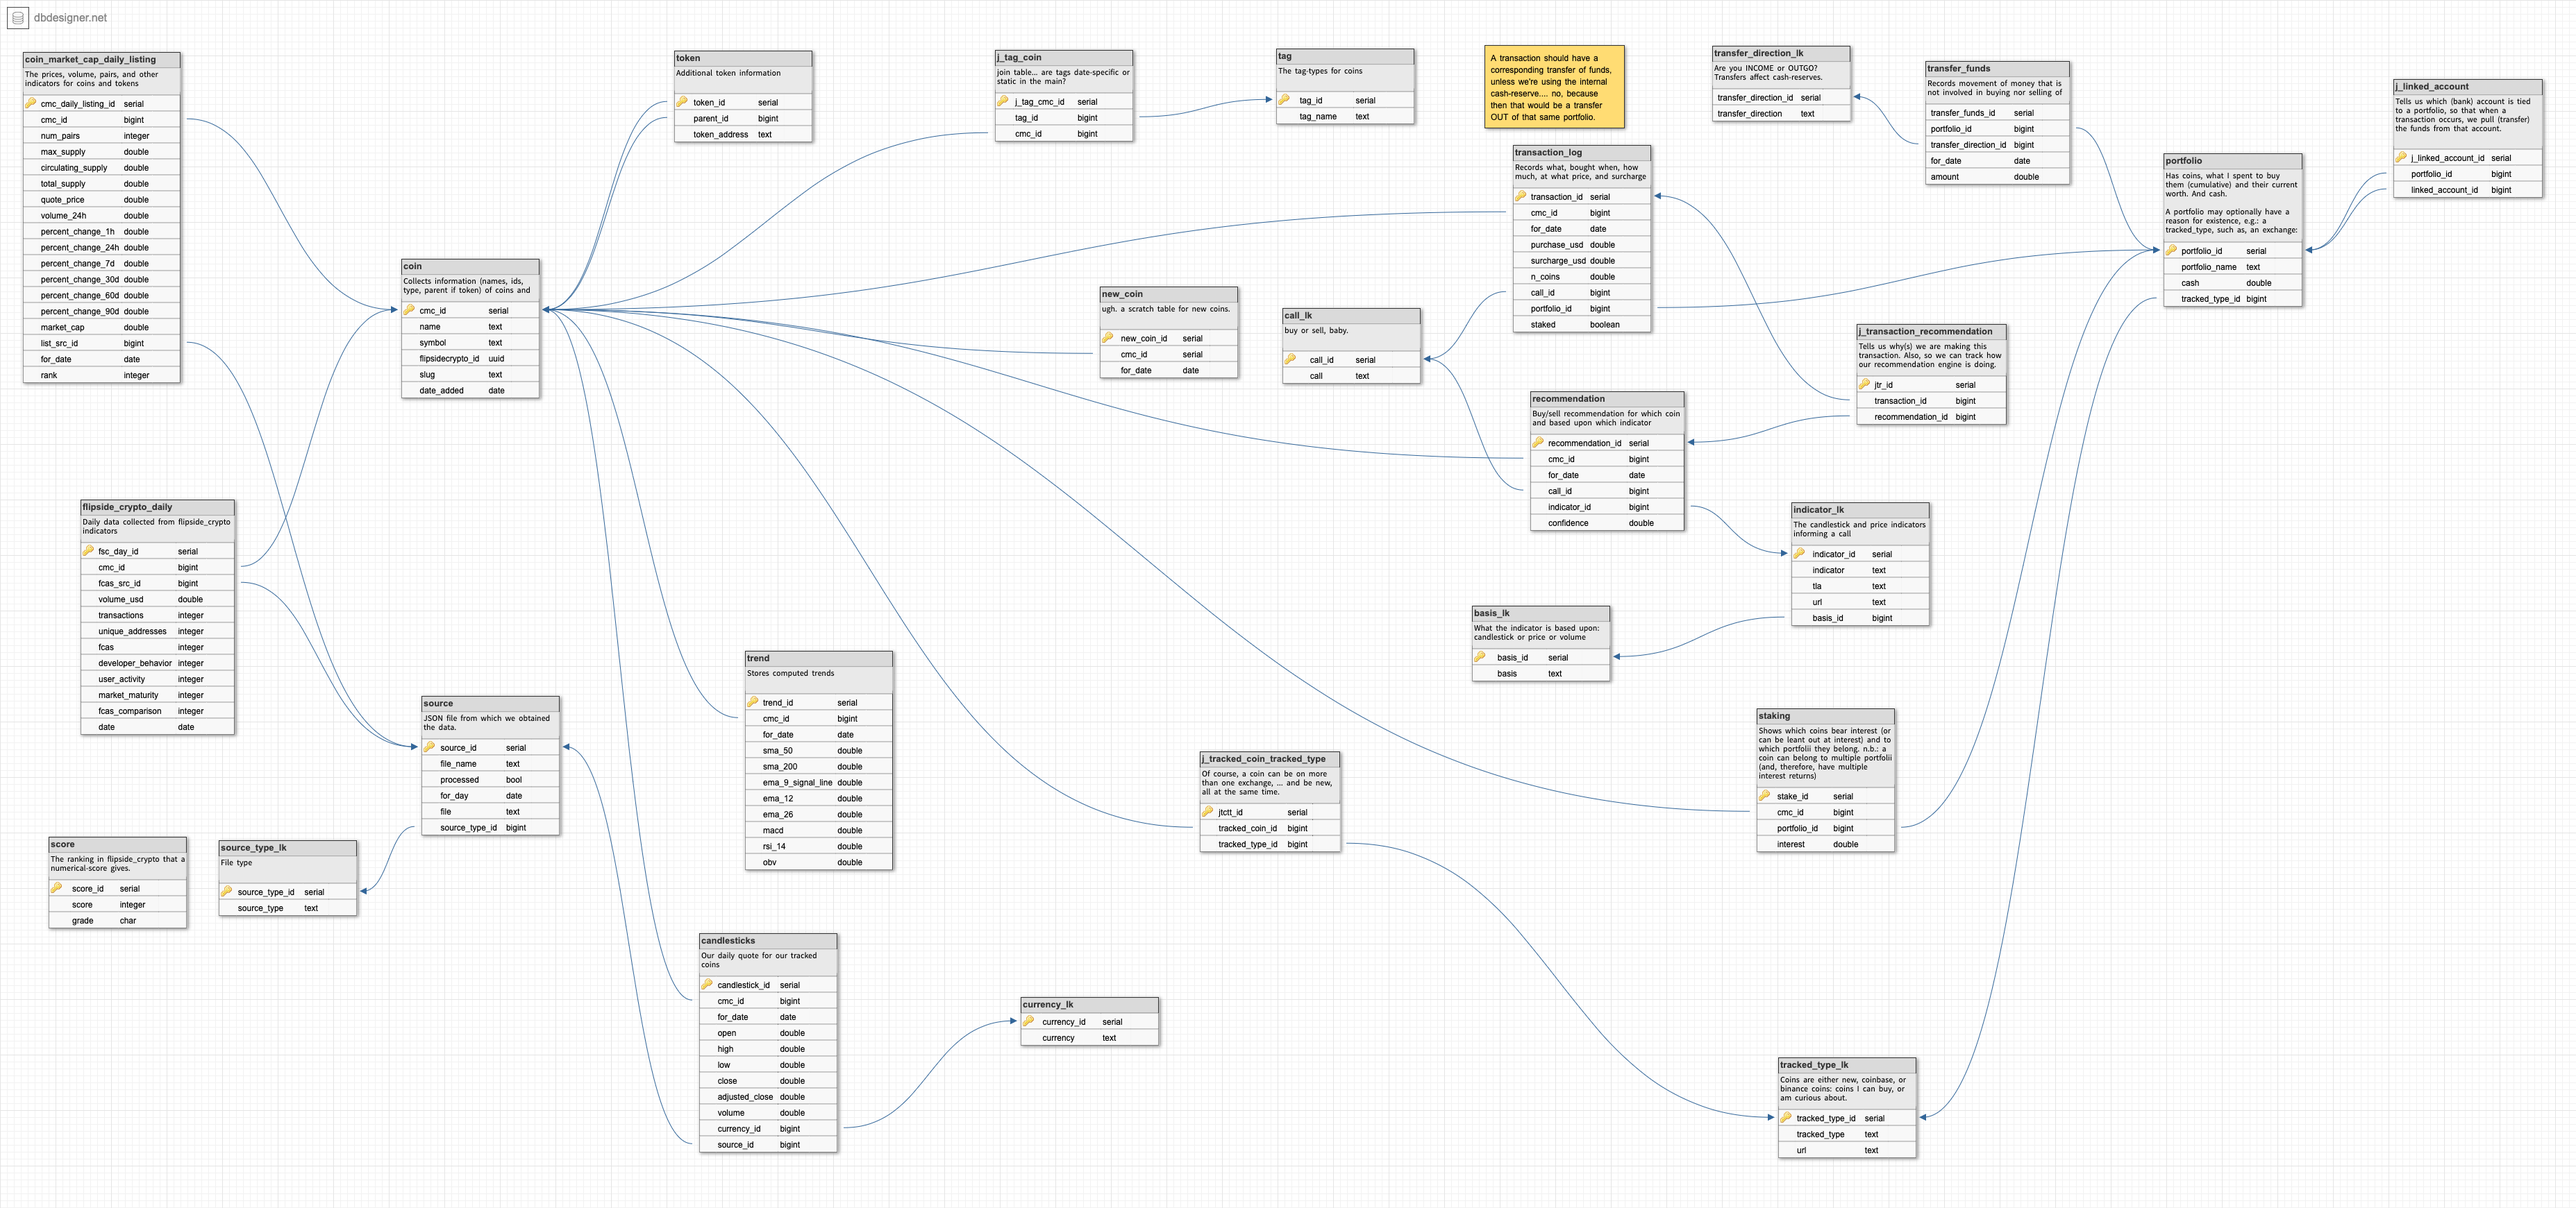
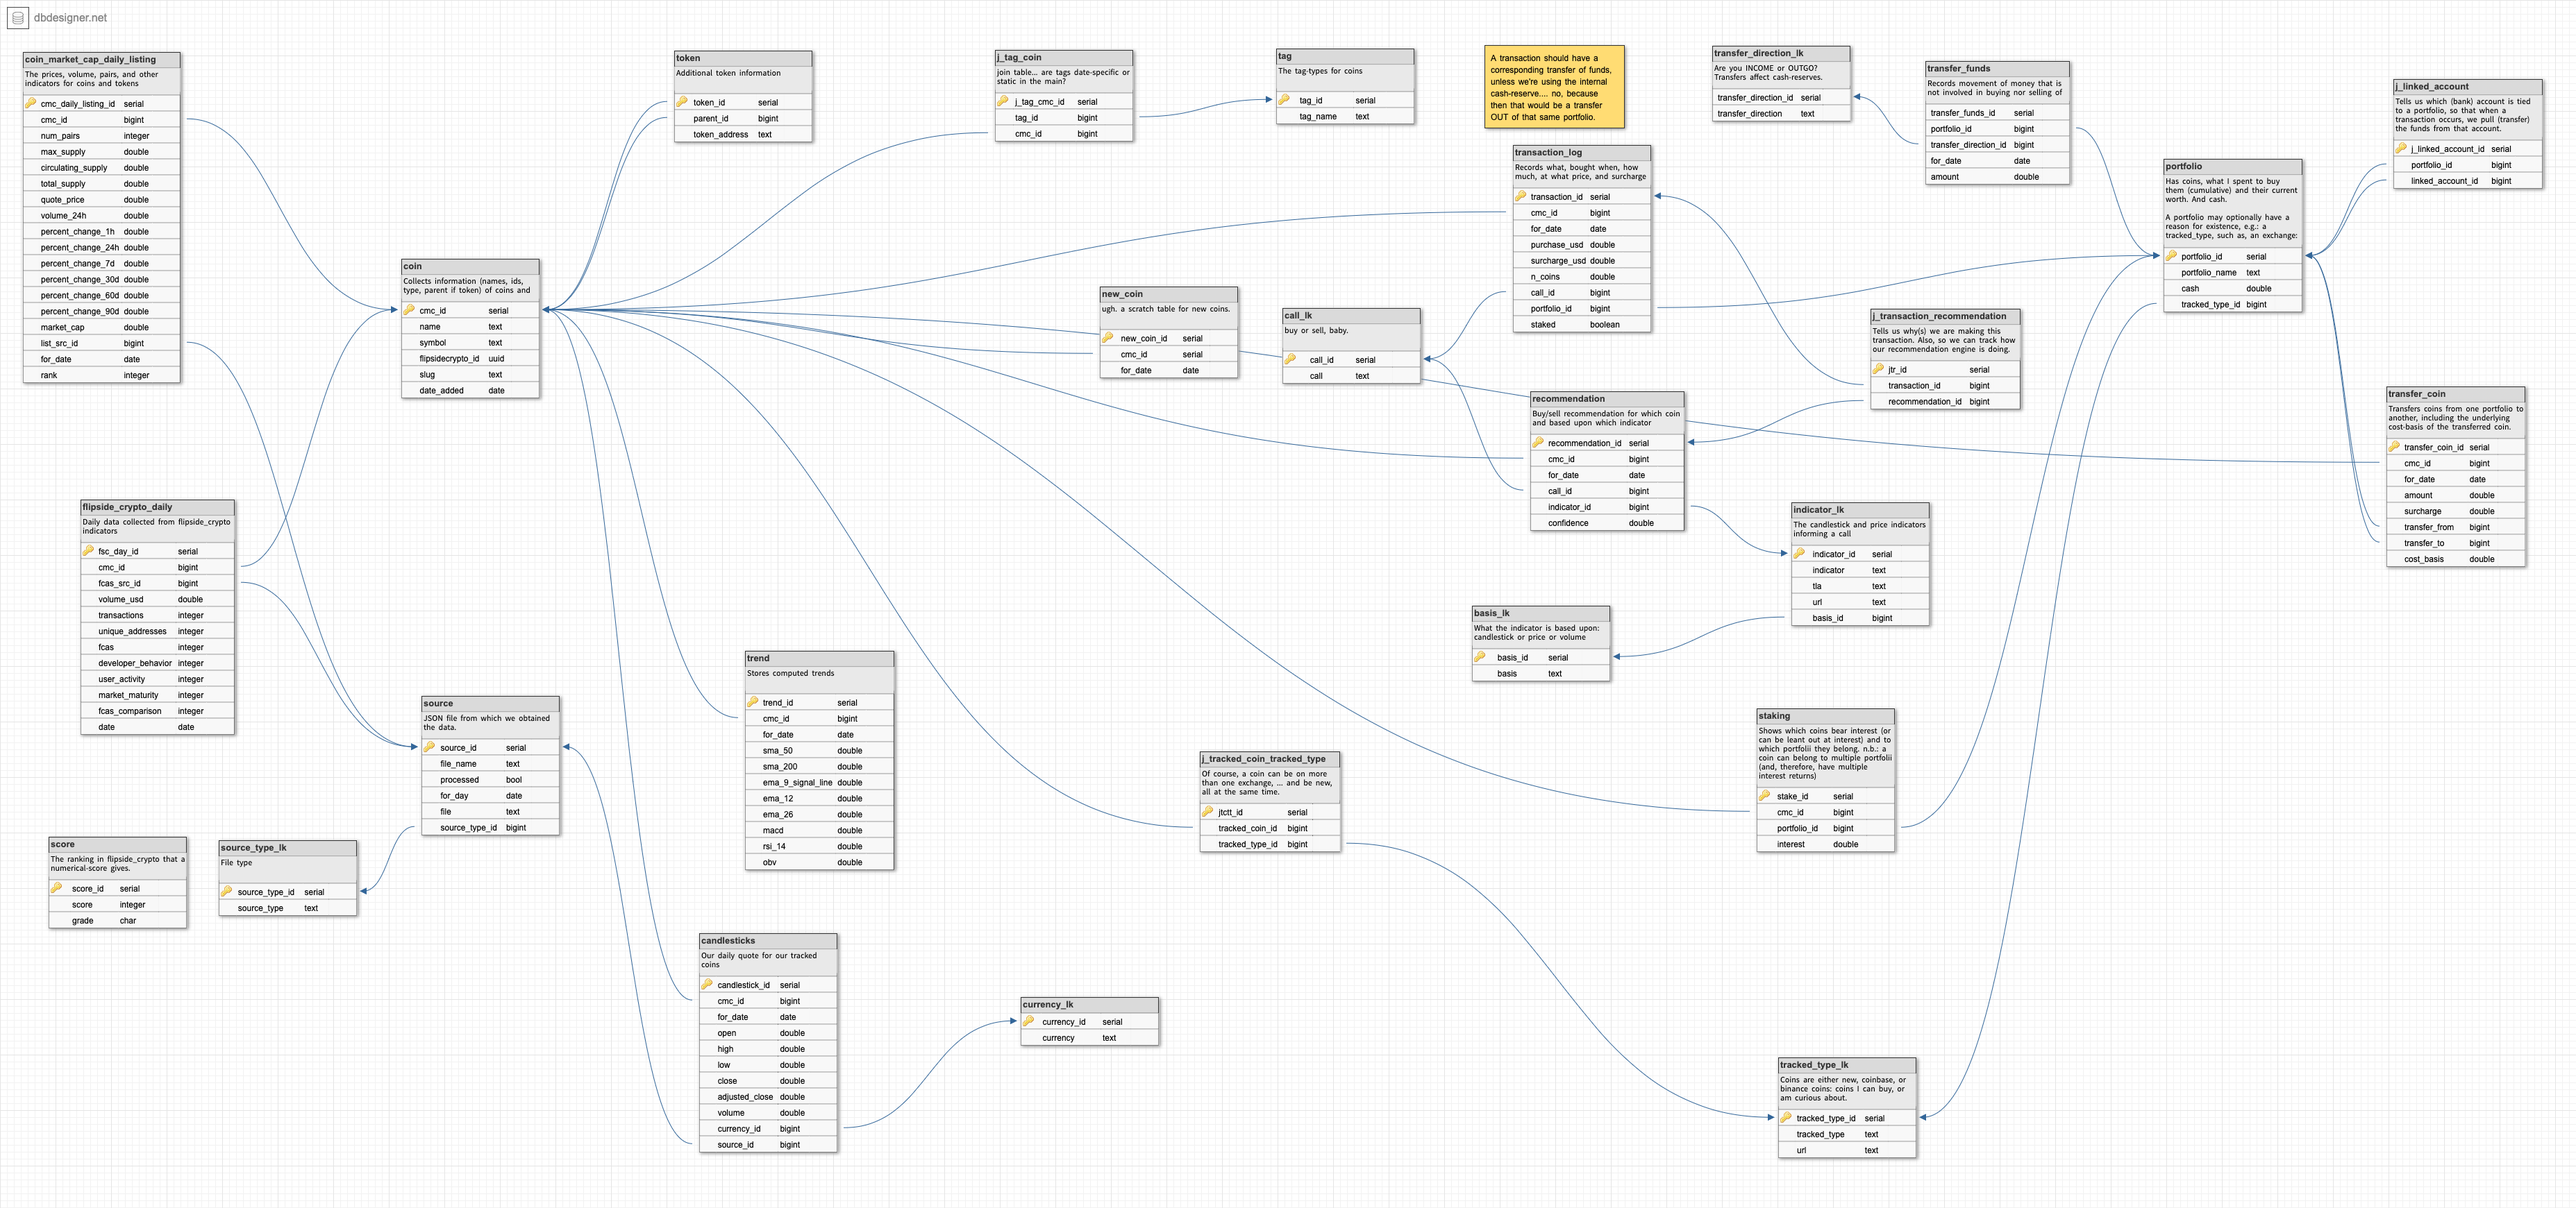
Added transfer_coin table to handle coin movement between exchanges.

diff --git a/README.md b/README.md
@@ -89,10 +89,10 @@ First, the [Five Most Powerful Candlestick Patterns](https://www.investopedia.co
 ## TODOs:
 
 * add a transfer protocol for coins (instead of dollars): STARTED; refactored
-  Transfer to CashTransfer
+  Transfer to CashTransfer; added transfer_coin table
 
-* We need a coin exchange from coin to coin, that is, when we convert COMP to
-  ETH (to MIR)
+* We need a coin exchange from coin to coin, called CoinConvert, that is, when
+  we convert COMP to ETH (to MIR)
 
 * We need to know the best (lowest) average price on a BUY recommendation and
   the best (highest) average price on a SELL recommendation... and not $0.00.
@@ -138,18 +138,12 @@ https://github.com/geophf/1HaskellADay/tree/master/exercises/HAD/Graph/D3
 ## Revision History
 ### ... or feeping creatures! AHA!
 
+* 2021-07-11: transfer_coin table to transfer coins between exchanges.
 * 2021-07-10: Day-after reports now also report yesterday's recommended call.
 * 2021-07-04: Automated day-after results report
 * 2021-06-26: Tracking coins now via cmc_id
 * 2021-06-24: Rearranged the ETL (load-part) and prefiltered file before 
   parsing it to JSON
 * 2021-06-10: Corrected issue with multiple transactions not being recorded.
-* 2021-06-05: reporting the average price of coin bought; Updated transaction 
-  context to favor coins in portfolii; rolling in earnings from staked coins.
-* 2021-06-04: added transfers of funds between accounts. Transactions now 
-  transfer funds from the linked-account, updating that account's balance.
-* 2021-06-01: Updated reports: portfolii show even if 'next day' (UTC)
-* 2021-05-29: Transaction reports now as CSV
-* 2021-05-28: Reports now output as CSV
 
 ... the complete revision history is [here](HISTORY.md)

diff --git a/HISTORY.md b/HISTORY.md
@@ -1,5 +1,12 @@
 # Revision History
 
+* 2021-07-11: transfer_coin table to transfer coins between exchanges.
+* 2021-07-10: Day-after reports now also report yesterday's recommended call.
+* 2021-07-04: Automated day-after results report
+* 2021-06-26: Tracking coins now via cmc_id
+* 2021-06-24: Rearranged the ETL (load-part) and prefiltered file before
+  parsing it to JSON
+* 2021-06-10: Corrected issue with multiple transactions not being recorded.
 * 2021-06-05: reporting the average price of coin bought.
 * 2021-06-04: added transfers of funds between accounts. Transactions now 
   transfer funds from the linked-account, updating that account's balance.
